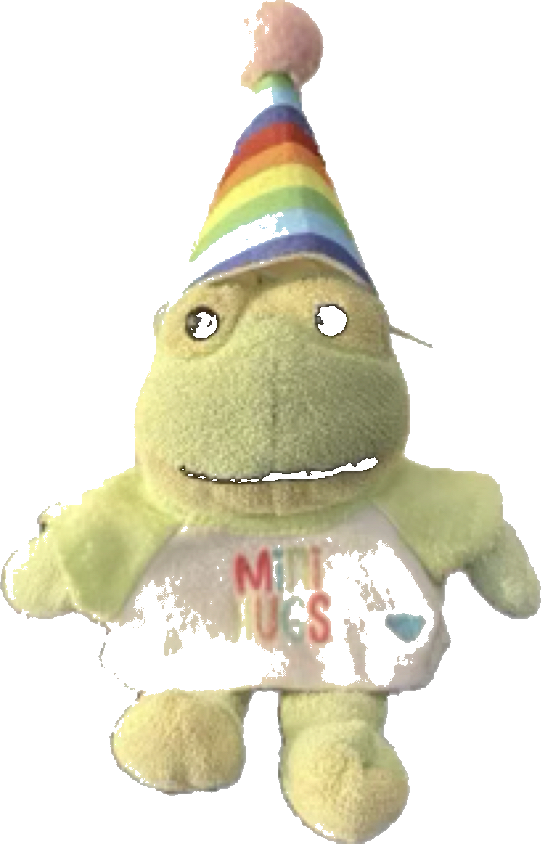
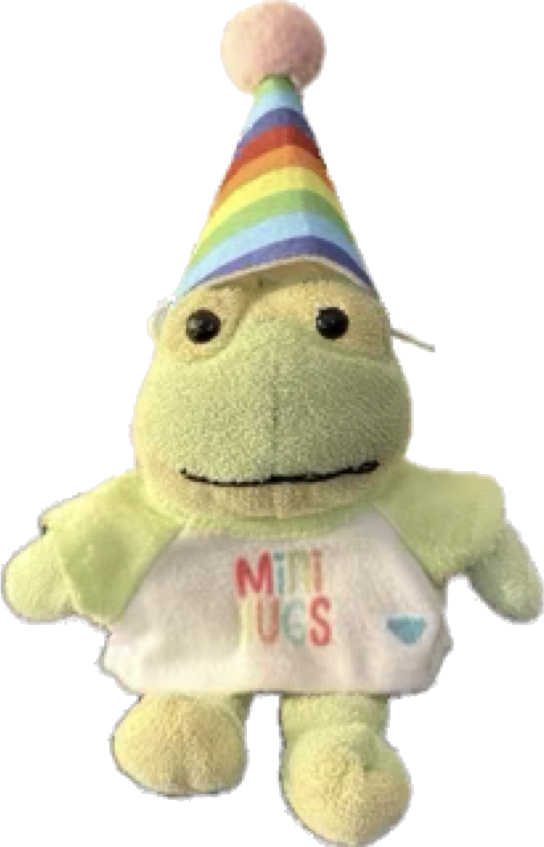
Use outer floodfill to remove background while preserving frog black eyes and stitched mouth

diff --git a/app/src/components/FrogAvatar.jsx b/app/src/components/FrogAvatar.jsx
@@ -5,8 +5,8 @@ export default function FrogAvatar({ gameState }) {
     if (gameState.hunger < 30) return '/assets/frog_sad.png';
     const items = gameState.equippedItems || (gameState.equippedItem ? [gameState.equippedItem] : []);
     const itemNames = items.filter(i => typeof i === 'string');
-    if (itemNames.includes('partyhat')) return '/assets/mugugins_partyhat_sticker_v2.png?v=20260722_05';
-    if (itemNames.includes('necklace')) return '/assets/frog_necklace.png?v=20260722_05';
+    if (itemNames.includes('partyhat')) return '/assets/mugugins_partyhat_sticker_v2.png?v=20260722_10';
+    if (itemNames.includes('necklace')) return '/assets/frog_necklace.png?v=20260722_10';
     return '/assets/frog_dressup_base.png';
   };
 